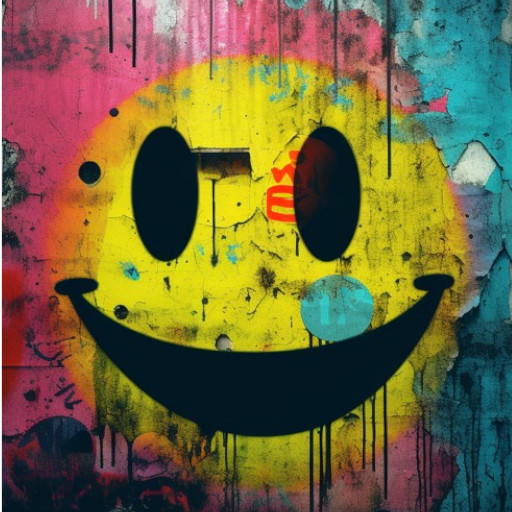
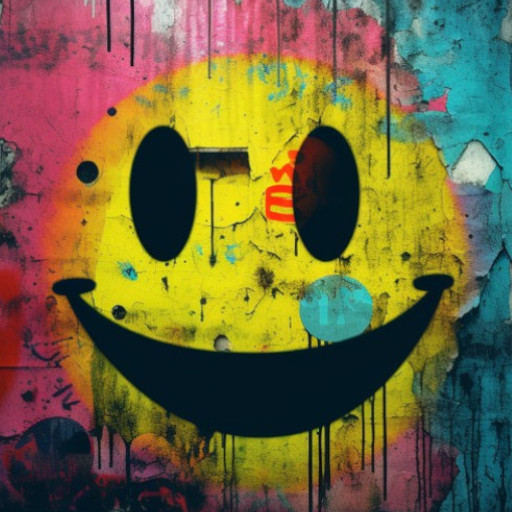
tiktakUpdate

diff --git a/TikTak/index.html b/TikTak/index.html
@@ -52,12 +52,12 @@
       }
 
       var buildUrl = "Build";
-      var loaderUrl = buildUrl + "/WebBuild.loader.js";
+      var loaderUrl = buildUrl + "/LowBuildTikTak.loader.js";
       var config = {
         arguments: [],
-        dataUrl: buildUrl + "/WebBuild.data",
-        frameworkUrl: buildUrl + "/WebBuild.framework.js",
-        codeUrl: buildUrl + "/WebBuild.wasm",
+        dataUrl: buildUrl + "/LowBuildTikTak.data",
+        frameworkUrl: buildUrl + "/LowBuildTikTak.framework.js",
+        codeUrl: buildUrl + "/LowBuildTikTak.wasm",
         streamingAssetsUrl: "StreamingAssets",
         companyName: "MaekGames",
         productName: "QatarFootballChallenge",
@@ -108,6 +108,7 @@
         canvas.style.height = "600px";
       }
 
+      canvas.style.background = "url('" + buildUrl + "/LowBuildTikTak.jpg') center / cover";
       document.querySelector("#unity-loading-bar").style.display = "block";
 
       var script = document.createElement("script");

diff --git a/TikTak/TemplateData/style.css b/TikTak/TemplateData/style.css
@@ -2,7 +2,7 @@ body { padding: 0; margin: 0 }
 #unity-container { position: absolute }
 #unity-container.unity-desktop { left: 50%; top: 50%; transform: translate(-50%, -50%) }
 #unity-container.unity-mobile { position: fixed; width: 100%; height: 100% }
-#unity-canvas { background: #000000 }
+#unity-canvas { background: #FFFFFF }
 .unity-mobile #unity-canvas { width: 100%; height: 100% }
 #unity-loading-bar { position: absolute; left: 50%; top: 50%; transform: translate(-50%, -50%); display: none }
 #unity-logo { width: 154px; height: 130px; background: url('unity-logo-dark.png') no-repeat center }